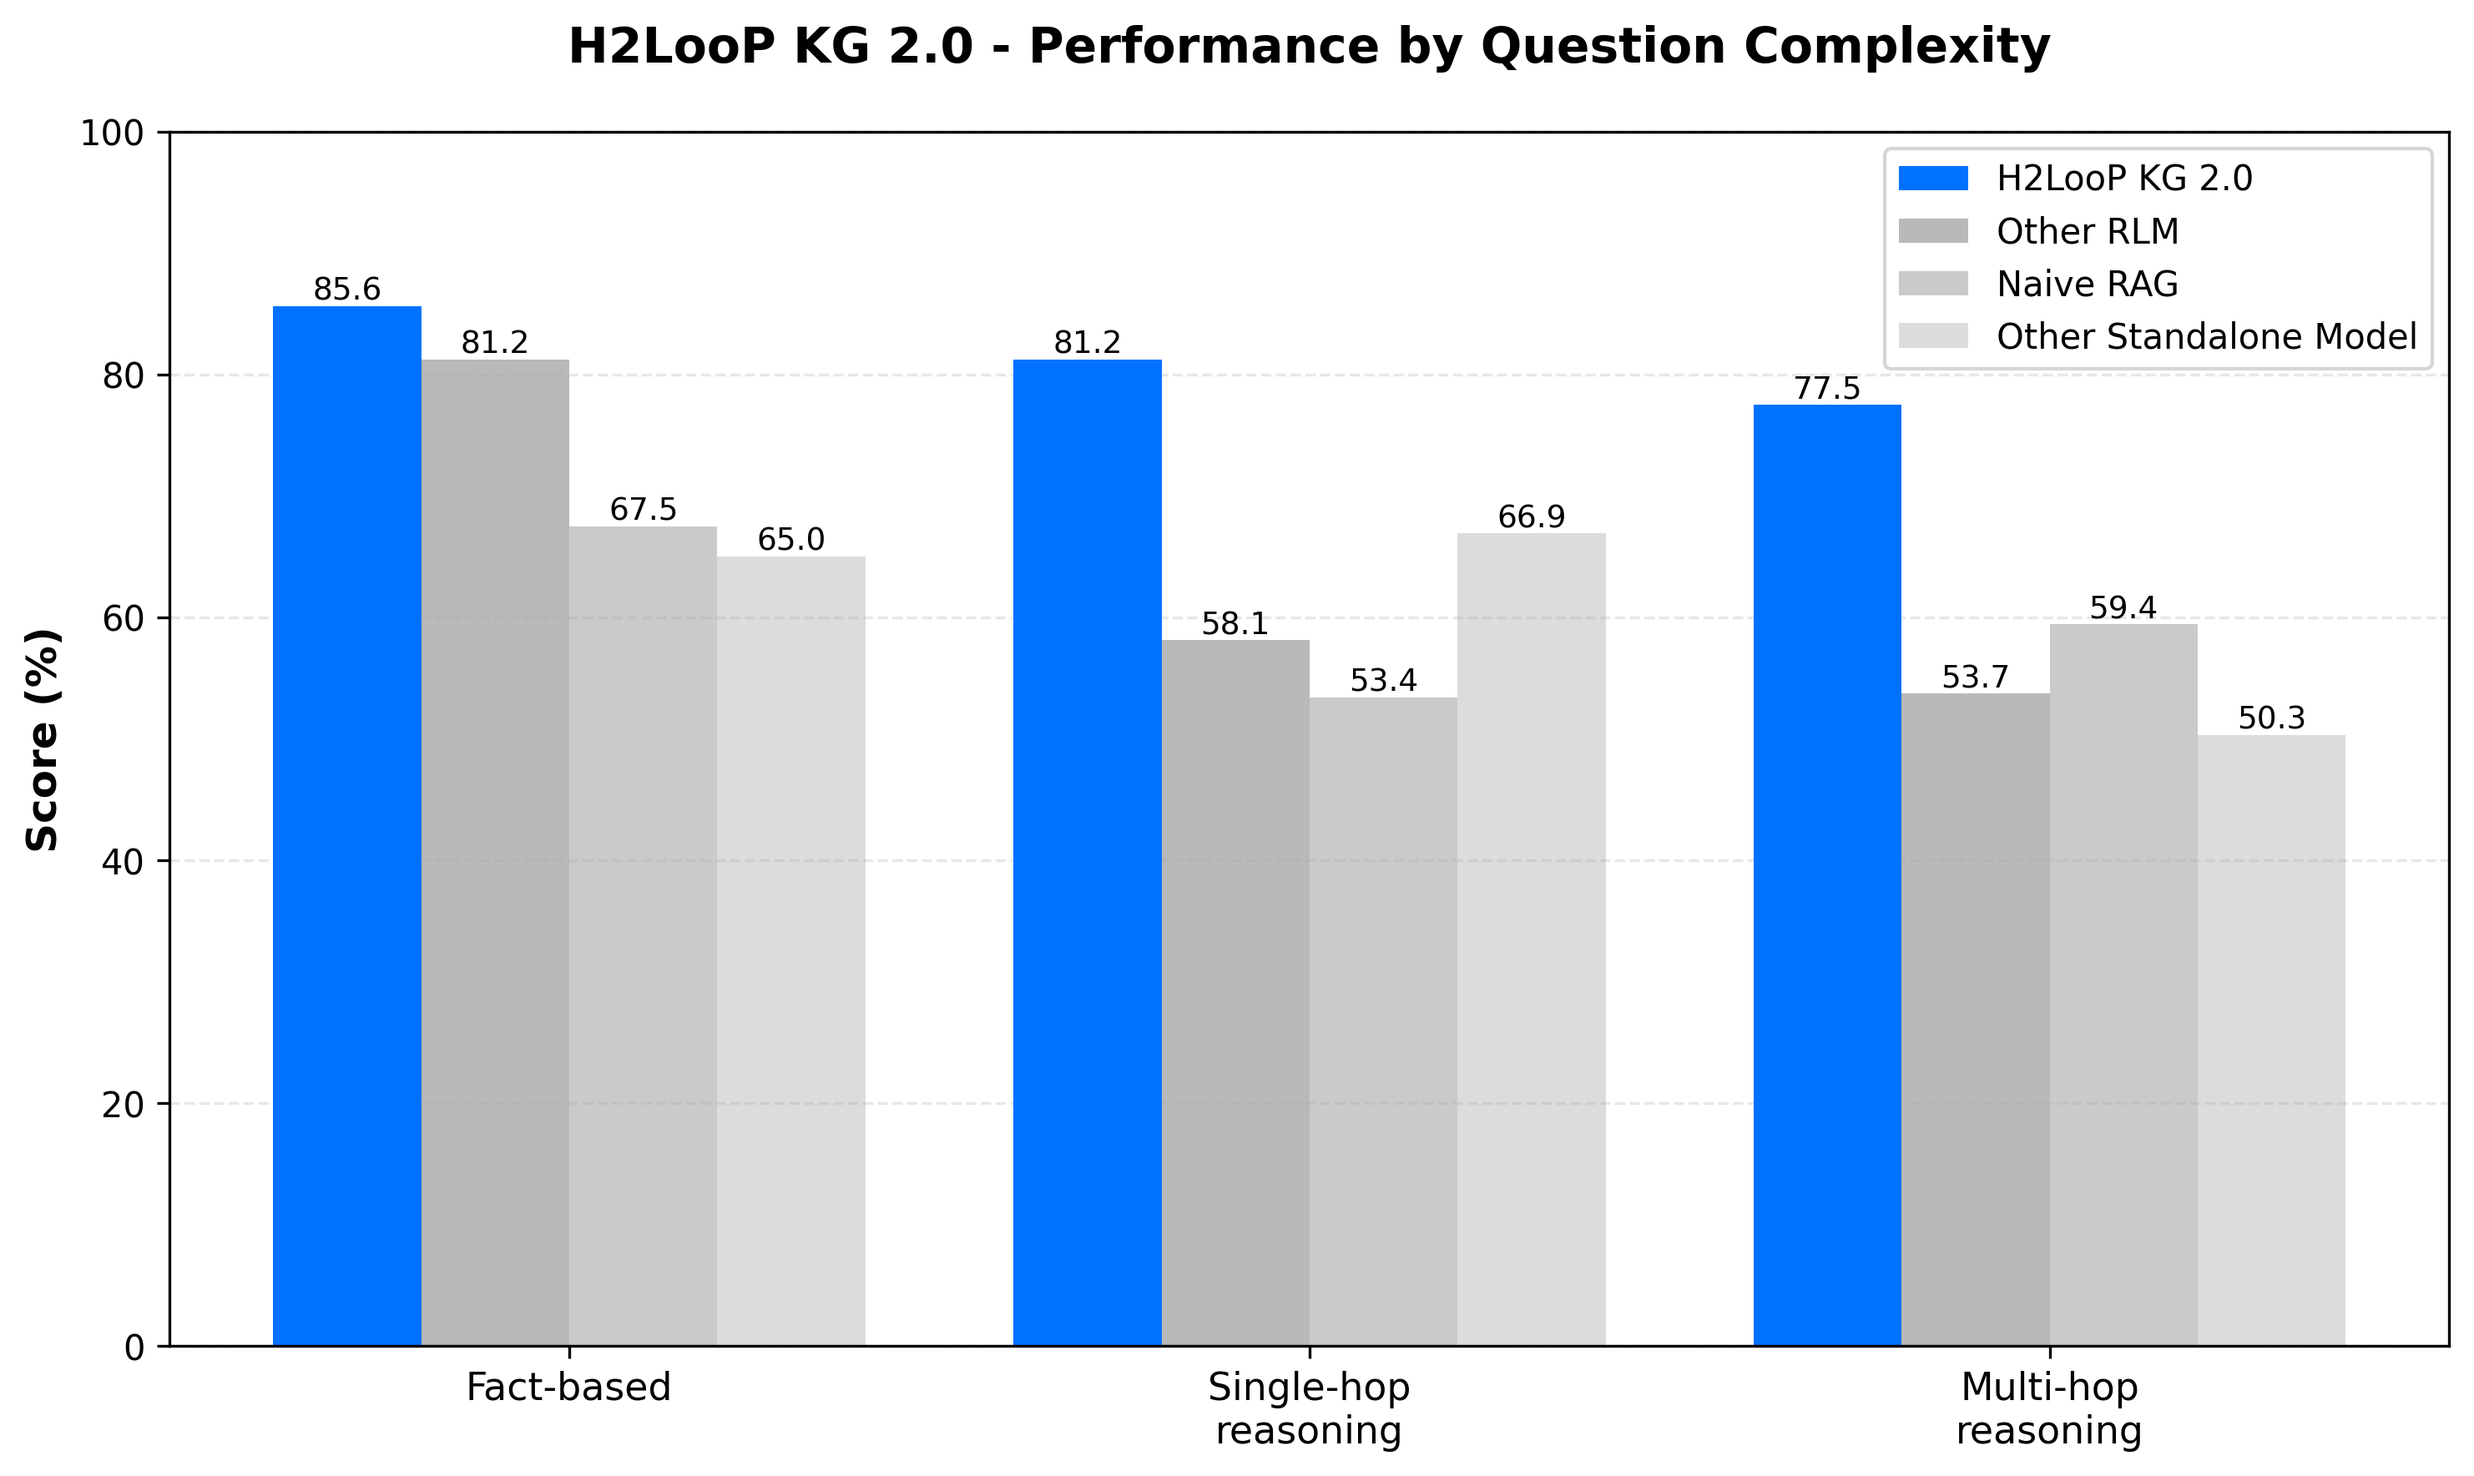
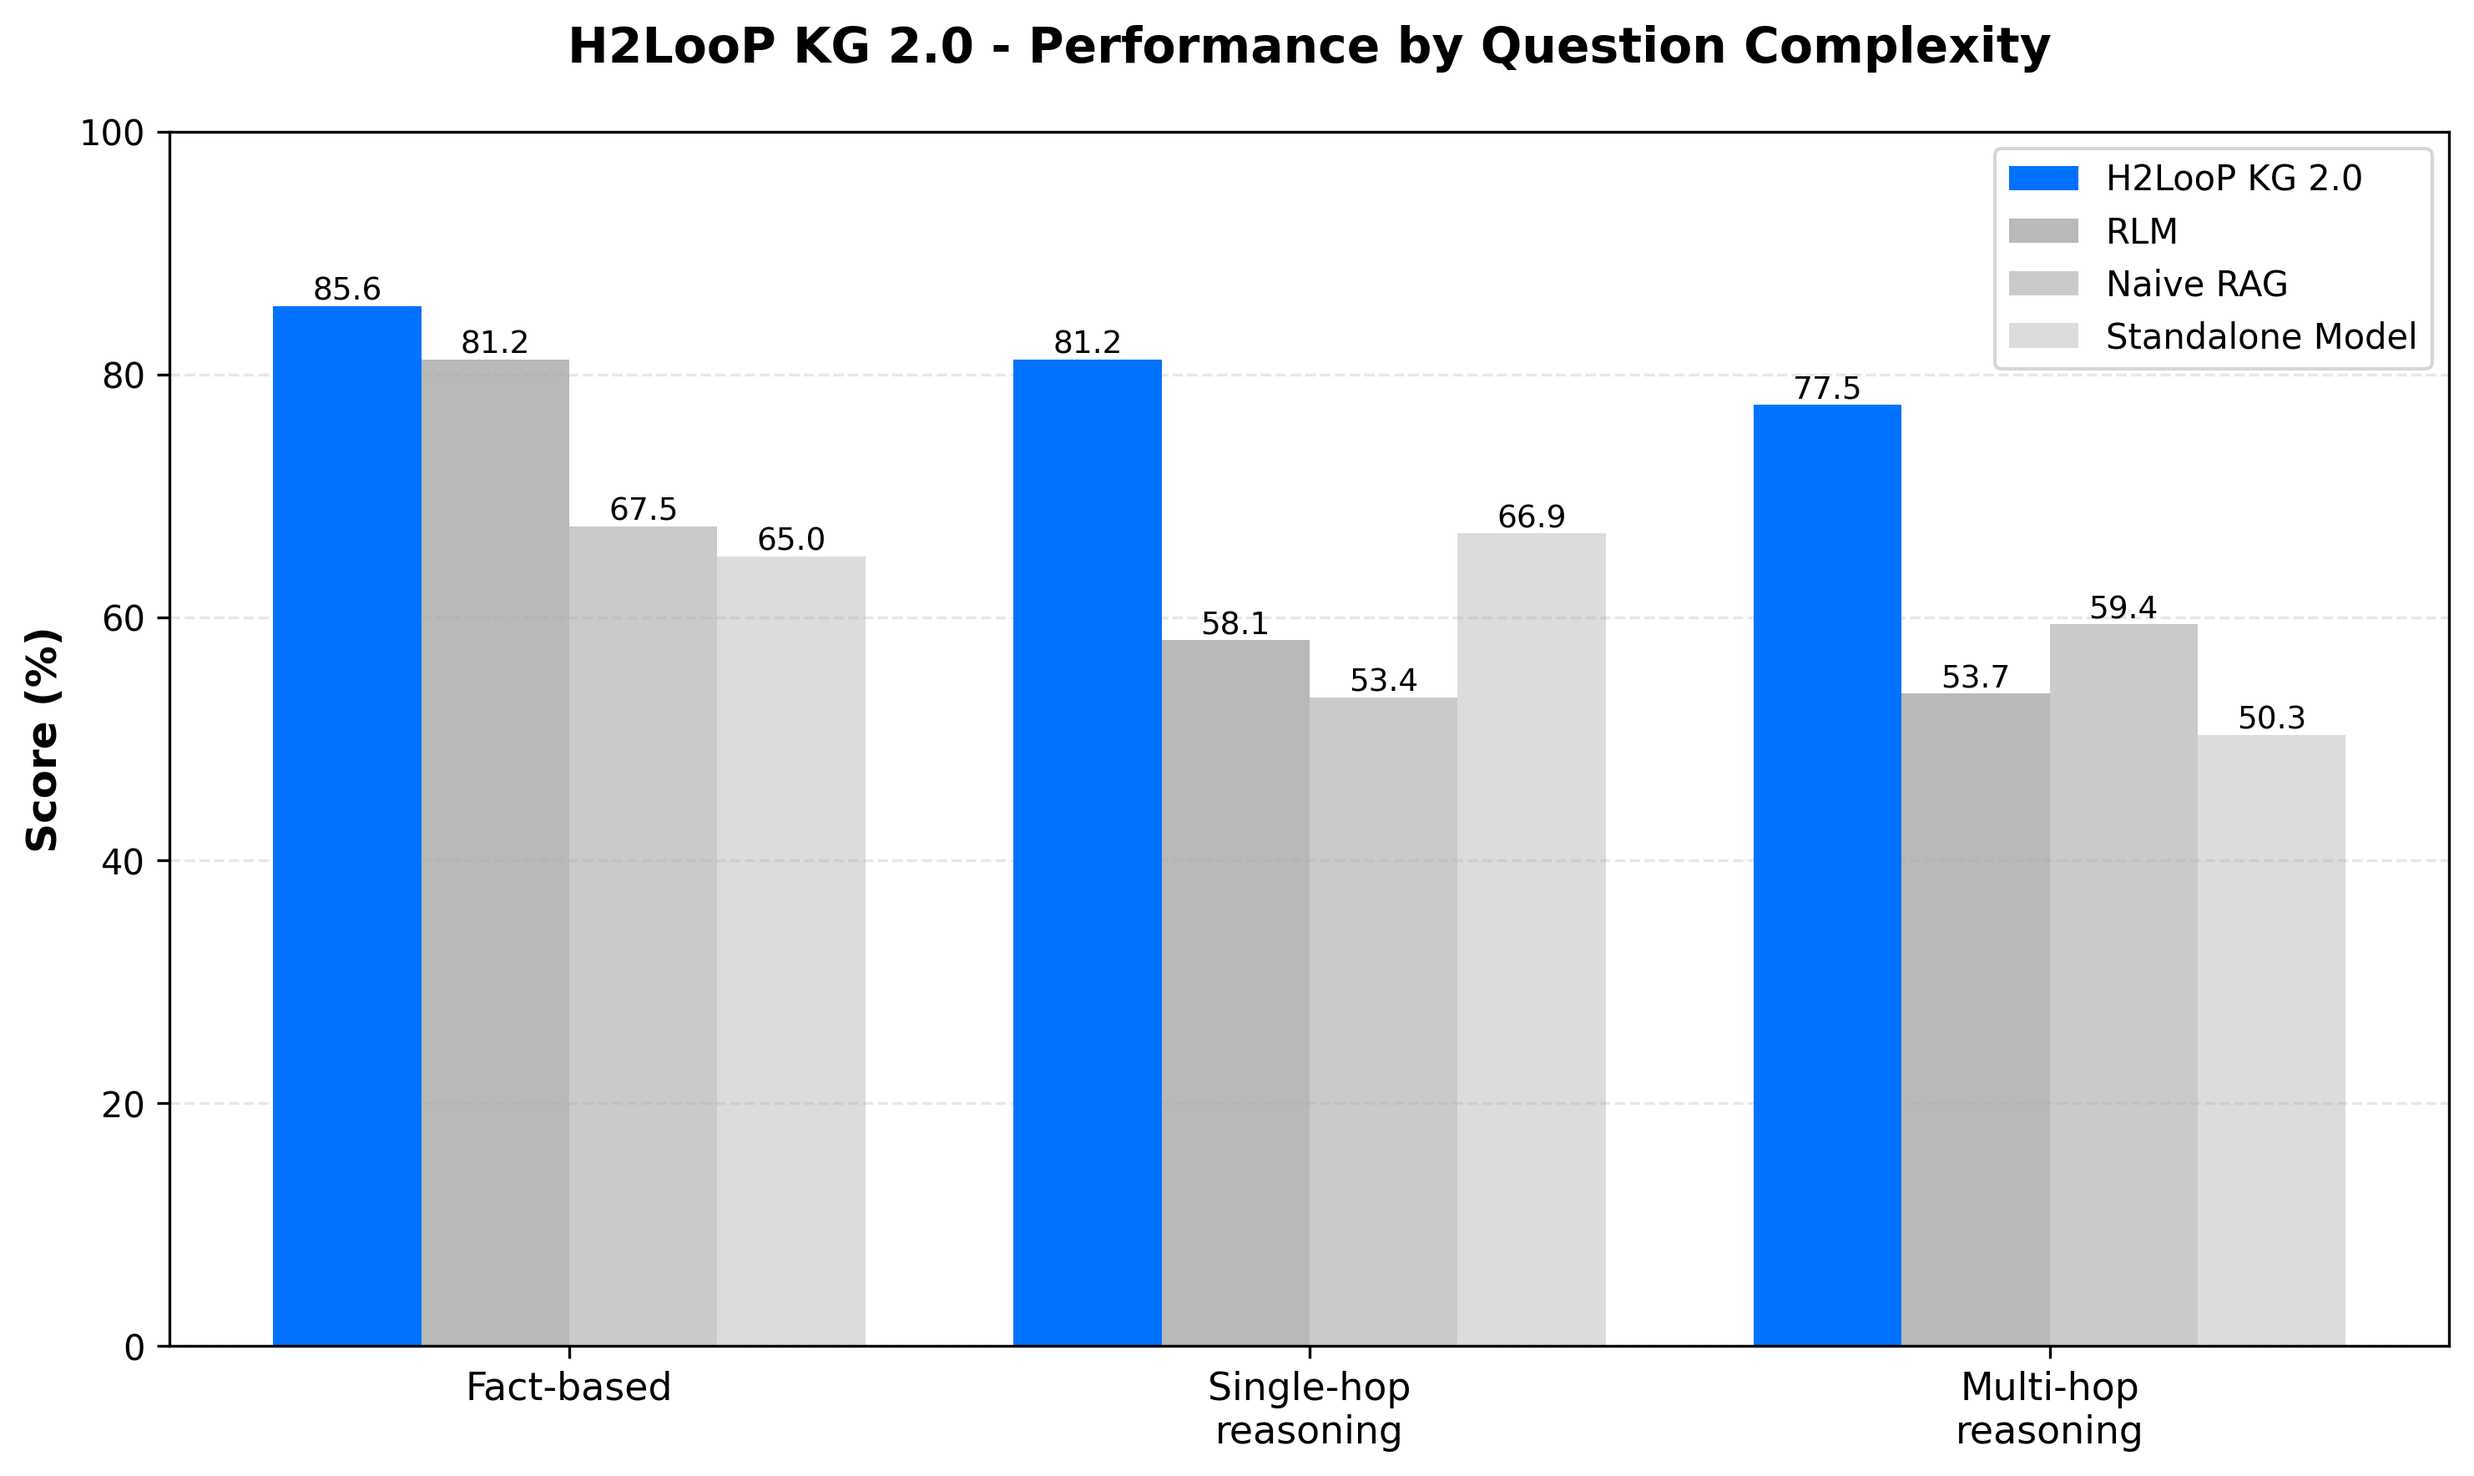
Updated KG and PDF Parser Reports

Changed region(s): [[0.7449, 0.0933, 0.9312, 0.2487], [0.9312, 0.2176, 0.9622, 0.2487]]

diff --git a/H2LooP_KG2.0_Report.md b/H2LooP_KG2.0_Report.md
@@ -1,0 +1,64 @@
+# H2LooP KG 2.0
+
+### 1 Overview
+The system was evaluated on a curated set of high-quality technical documents including datasheets, specifications, and technical manuals.
+
+### 2 Baseline Systems
+
+| System | Description |
+|--------|-------------|
+| **RLM (DSPy)** | Full document context stuffed into prompt. Uses DSPy framework with structured signatures (DirectAnswer/RefineAnswer). Powered by minimax-m2. Configured with depth=1, iterations=1 |
+| **Naive RAG** | Fixed 512-token chunking with 50-token overlap. Embeddings via all-MiniLM-L6-v2 (384-dim, local). Cosine similarity top-5 retrieval, in-memory. Generation via minimax-m2 |
+| **Standalone Model** | Full document context stuffed into prompt. Single-shot completion via minimax-m2. No retrieval, no refinement |
+
+### 3 Performance Results
+
+#### Overall Performance
+
+![H2LooP KG 2.0 Overall Performance](plots/kg_overall_performance.png)
+
+| System | Final Score | Avg Response Time |
+|--------|-------------|-------------------|
+| **H2LooP KG 2.0** | **81.5%** | 55.1s |
+| RLM | 65.4% | 47.0s |
+| Naive RAG | 61.5% | 7.4s |
+| Standalone Model | 59.1% | 36.7s |
+
+H2LooP KG 2.0 outperforms baseline approaches by significant margins:
+- **24.7% better** than Standalone Model
+- **20.0% better** than Naive RAG
+- **16.1% better** than RLM
+
+#### Performance by Metric
+
+![H2LooP KG 2.0 Performance by Metric](plots/kg_performance_by_metric.png)
+
+| Metric | H2LooP KG 2.0 | RLM | Naive RAG | Standalone Model |
+|--------|---------------|-----------|-----------|------------------------|
+| Numerical Precision | **91.7%** | 66.7% | 60.4% | 60.4% |
+| Completeness | **95.8%** | 81.2% | 70.8% | 77.1% |
+| Citation Quality | **35.4%** | 10.4% | 27.1% | 20.8% |
+| No Hallucination | **83.3%** | 70.8% | 60.4% | 60.4% |
+| Relevance | 66.7% | 87.5% | **91.7%** | 95.8% |
+| Faithfulness | 93.8% | 79.2% | 70.8% | 66.7% |
+
+#### Performance by Question Complexity
+
+![H2LooP KG 2.0 Performance by Question Complexity](plots/kg_performance_by_complexity.png)
+
+| Category | H2LooP KG 2.0 | RLM | Naive RAG | Standalone Model |
+|----------|---------------|-----------|-----------|------------------------|
+| Fact-based | **85.6%** | 81.2% | 67.5% | 65.0% |
+| Single-hop reasoning | **81.2%** | 58.1% | 53.4% | 66.9% |
+| Multi-hop reasoning | **77.5%** | 53.7% | 59.4% | 50.3% |
+
+### 4 Key Strengths
+
+- **Exceptional Numerical Precision**: 91.7% accuracy in extracting exact technical specifications
+- **Superior Completeness**: 95.8% coverage of all required information
+- **Reduced Hallucinations**: 83.3% hallucination-free responses with better grounding in actual content
+- **Enhanced Citation Quality**: Explicitly references tables, sections, and page numbers for verification
+- **Strong Multi-hop Reasoning**: 77.5% accuracy on complex questions requiring cross-document reasoning
+- **No Context Length Limitation**: Handles arbitrarily large document collections
+
+---

diff --git a/H2LooP_PDF_Parser_Report.md b/H2LooP_PDF_Parser_Report.md
@@ -1,0 +1,53 @@
+# H2LooP PDF Parser
+
+### 1 Overview
+
+The system was evaluated across four key dimensions: OCR Quality, Table Extraction, Document Structure, and Reading Order.
+
+### 2 Overall Performance
+
+![H2LooP PDF Parser Overall Performance](plots/parser_final_scores.png)
+
+| Rank | Parser | Final Score | OCR Quality | Table Extraction | Structure | Reading Order |
+|------|--------|-------------|-------------|------------------|-----------|---------------|
+| 1 | **H2LooP PDF Parser** | **0.6519** | **0.4743** | **0.7103** | **0.8926** | **0.4683** |
+| 2 | H2LooP PDF Parser (Rasterized) | 0.6506 | 0.4735 | 0.7100 | 0.8926 | 0.4683 |
+| 3 | Other OCR | 0.5417 | 0.4090 | 0.4790 | 0.5814 | 0.5502 |
+| 4 | Other Classical Parser (Marker) | 0.5132 | 0.3113 | 0.4253 | 0.8281 | 0.5244 |
+| 5 | Other Classical Parser (Markitdown) | 0.2731 | 0.3441 | 0.0000 | 0.5287 | 0.1808 |
+
+H2LooP PDF Parser was evaluated across four dimensions:
+
+![H2LooP PDF Parser Performance by Metric](plots/parser_performance_by_metric.png)
+
+- **OCR Quality**: Character and word-level recognition accuracy
+- **Table Extraction**: Structural preservation and content extraction
+- **Document Structure**: Hierarchy and element detection
+- **Reading Order**: Block sequencing in multi-column layouts
+
+### 3 Key Strengths
+
+**Excellent Document Structure Recognition**
+- 89.26% overall structure score
+- 96.53% accuracy in identifying headers, paragraphs, and bullets
+- 91.70% hierarchy preservation maintains document organization
+- 78.62% accuracy in distinguishing header levels
+
+**Strong Table Extraction**
+- 71.03% overall table extraction score
+- 90.33% shape accuracy - correctly identifies table dimensions
+- 73.14% exact F1, 76.99% fuzzy F1 - strong cell-level accuracy
+- 68.80% TEDS score - maintains hierarchical table structure
+- Handles complex scenarios: merged cells, multi-row headers, nested tables
+
+**Exceptional Rasterization Resilience**
+- Only 0.20% performance drop on rasterized PDFs
+- Demonstrates production-ready robustness for diverse document sources
+- Maintains consistent performance across native and image-based PDFs
+
+**Balanced OCR Performance**
+- 68.3% character-level accuracy
+- 0.3358 Character Error Rate
+- 2.6362 Word Error Rate
+
+---
